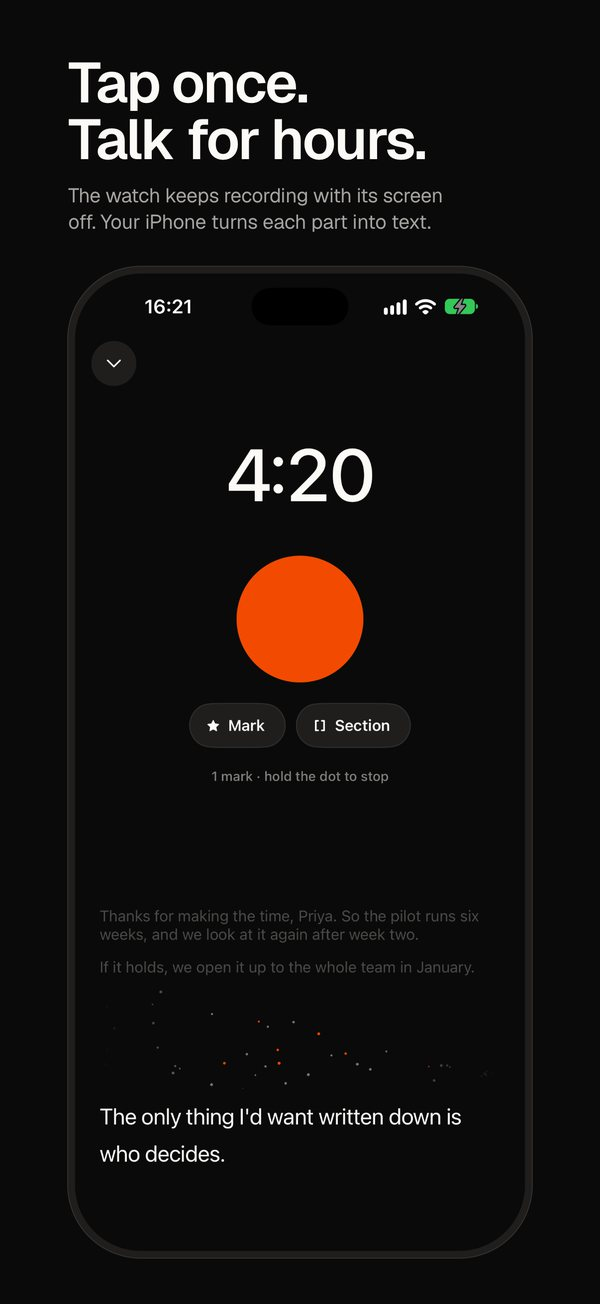
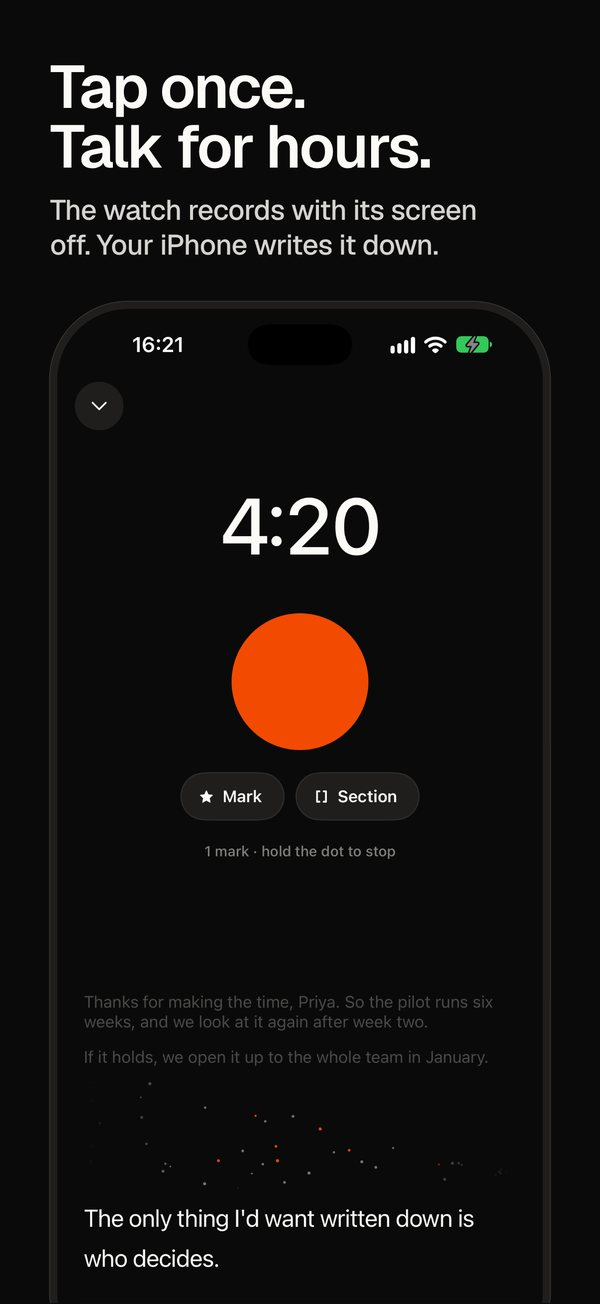
README: Shortcuts explained action by action, with the automation as numbered steps; screenshots updated to the store's larger type

diff --git a/README.md b/README.md
@@ -56,27 +56,33 @@ Titles and tidying are written on the iPhone by Apple Intelligence where it's av
 
 ## Shortcuts
 
-On the iPhone:
+jotto adds its own actions to the Shortcuts app, so recordings can start, stop and go places without you opening it.
 
-| Action | What it does |
-|--------|--------------|
-| Start Recording, Stop Recording | On the watch if jotto is open there, otherwise on the iPhone |
-| Mark This Moment | A star in the recording going on |
-| Get Finished Transcripts | Every finished recording not yet sent to a destination you name, once each |
-| Get Transcript, Get Latest Transcript, Get a Day's Transcripts | A transcript laid out by one of your templates |
-| Open Recording, Find Recording | Jump to a recording, or pick one by date or title |
+**Recording**
 
-On the watch: **Record or Mark** (starts a recording, or marks a highlight if one is going; made for the Action Button) and **Mark Without Opening**.
+- **Start Recording** starts on the watch if jotto is open there, otherwise on the iPhone.
+- **Stop Recording** stops whichever one is recording.
+- **Mark This Moment** puts a star on what's being said right now.
+- On the watch, **Record or Mark** starts a recording, or marks the one that's going; it's made for the Action Button. **Mark Without Opening** marks without bringing jotto to the front.
 
-Transcripts come out as text for Mail or ChatGPT, and as a dated, titled `.md` or `.txt` file for Save File.
+**Transcripts**
 
-To send every recording somewhere by itself, turn on *Notify when ready* in jotto's settings. Then, in Shortcuts, add an automation for **when jotto sends a notification**, set to run immediately:
+- **Get Latest Transcript** gives the newest finished recording.
+- **Get Transcript** gives a recording you choose, or one found with **Find Recording** (by date or title).
+- **Get a Day's Transcripts** gives every recording from one day.
+- **Get Finished Transcripts** is for automations. It gives every recording that has finished since it last ran for a destination you name, so each recording goes to each place once: nothing twice, nothing skipped.
+- **Open Recording** opens a recording in jotto.
 
-1. **Get Finished Transcripts**, with Destination *Obsidian* and the template you want.
-2. **Repeat with Each** of them.
-3. **Save File** into your vault (or **Send Email**, or **Ask ChatGPT**).
+Transcripts are laid out by one of your Send templates. Give one to an action that takes text, like Send Email or Ask ChatGPT, and it gets the text. Give it to Save File and it becomes a `.md` or `.txt` file named with the date, time and title.
 
-Each recording goes to each destination once. If a run is missed, the next one catches up.
+### Send every recording somewhere by itself
+
+1. In jotto's settings, turn on **Notify when ready**. jotto then sends one notification per recording, when it's completely transcribed, formatted and titled.
+2. In Shortcuts, add a personal automation for when you get a notification from jotto, set to **Run Immediately**.
+3. Add **Get Finished Transcripts**. Set *Destination* to a name for where they're going, such as *Obsidian*, and choose a template.
+4. Add **Repeat with Each**, and inside it **Save File** into your vault (or **Send Email**, or **Ask ChatGPT**).
+
+If a run is missed, the next one catches up. To send to more than one place, make an automation for each, each with its own Destination name.
 
 ## Privacy
 
